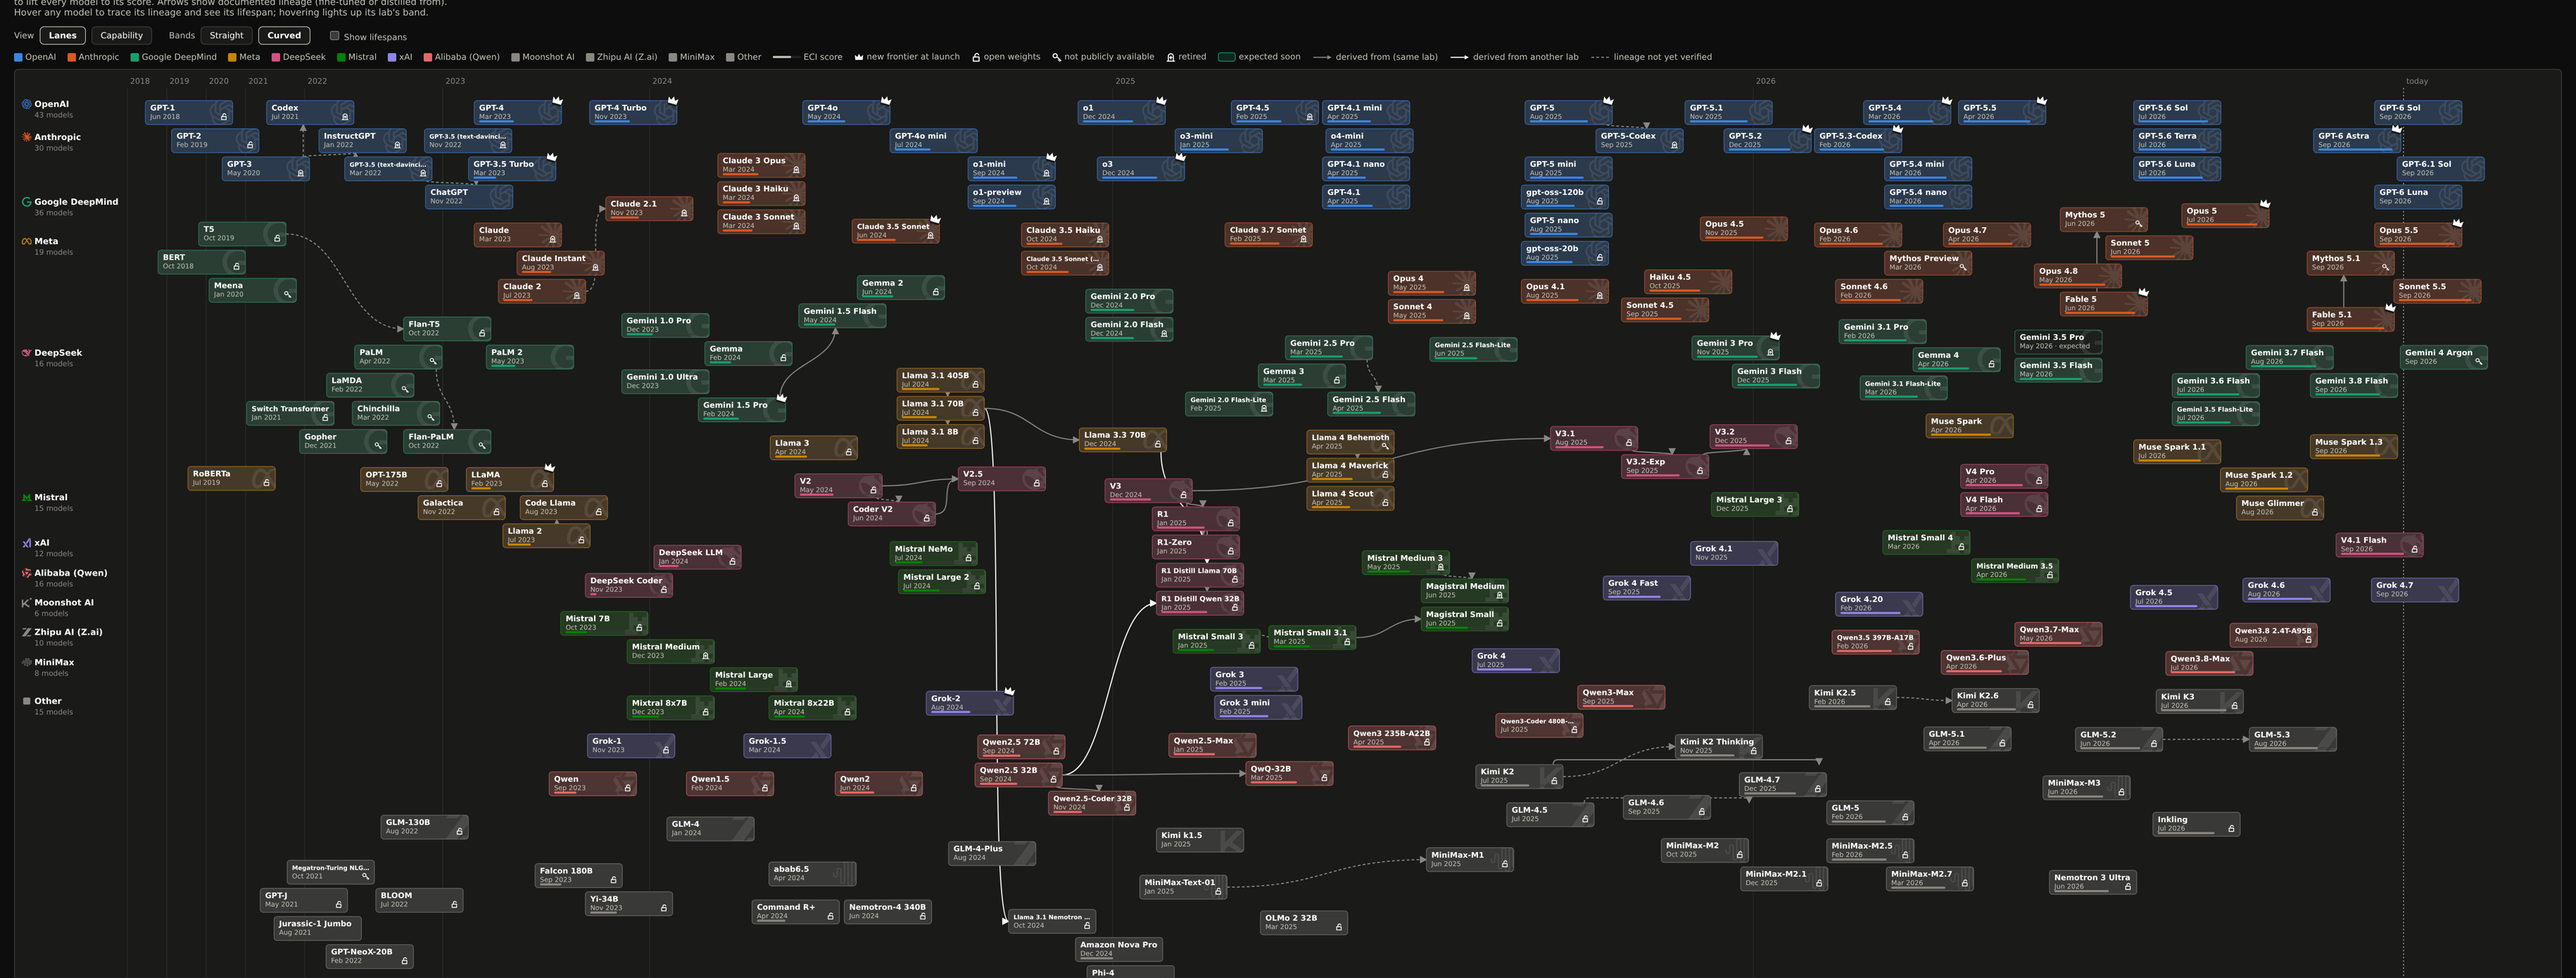
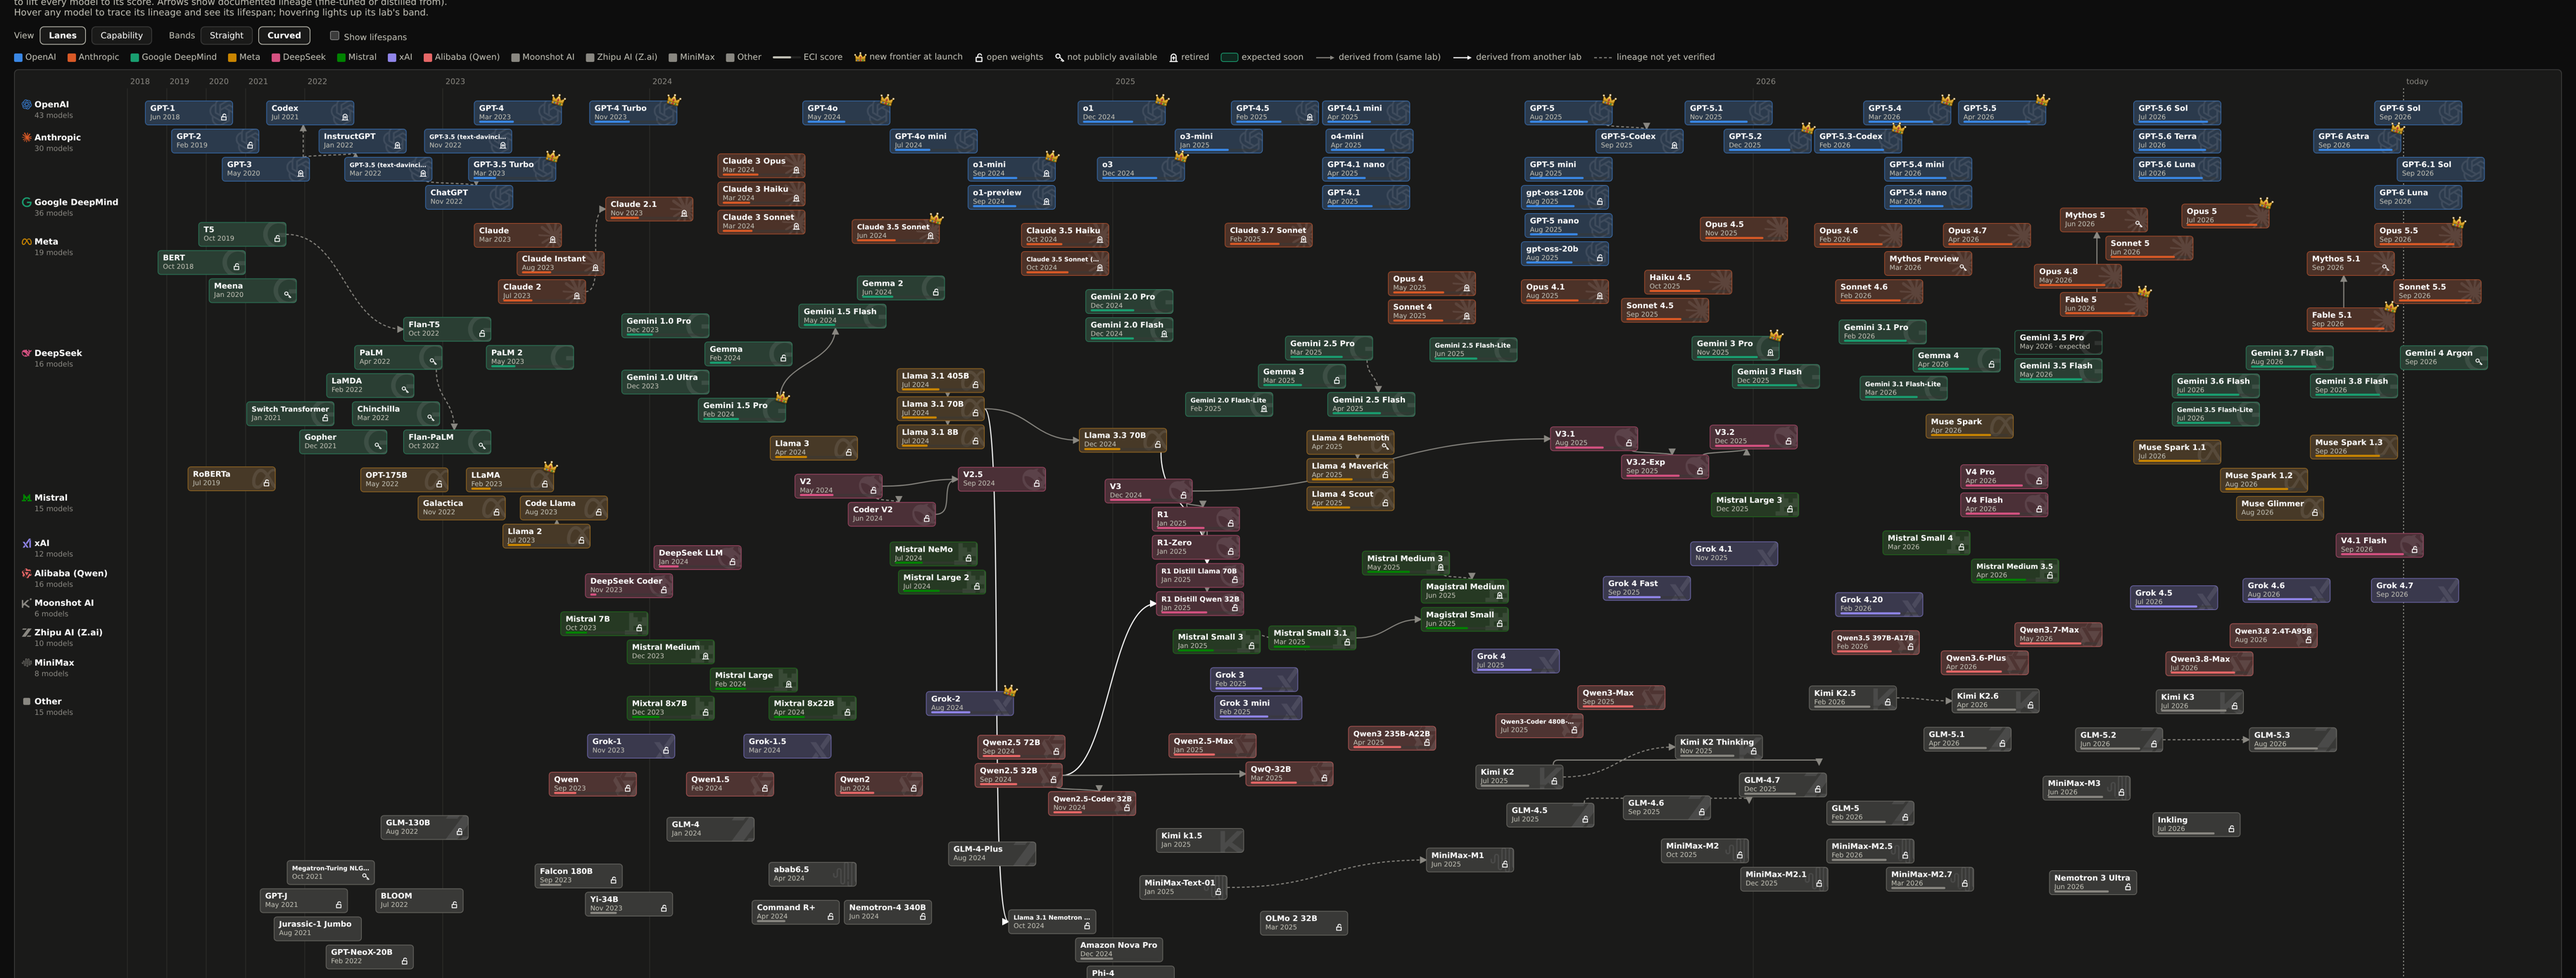
Prototype: gold jewelled frontier crown

diff --git a/prototype/boxes.html b/prototype/boxes.html
@@ -65,9 +65,8 @@ svg text { font-family: inherit; }
 .box .meta { font-size: 9.5px; fill: var(--text-secondary); font-variant-numeric: tabular-nums; transition: opacity .3s; }
 .box .wm { fill: var(--text-primary); opacity: .09; transition: opacity .3s; }
 svg.cap .box .wm { opacity: 0; }
-.box .crown { fill: var(--text-primary); stroke: var(--surface-1); stroke-width: 1.4; paint-order: stroke; transition: opacity .3s; }
+.box .crown { transition: opacity .3s; filter: drop-shadow(0 1px 1px rgba(0,0,0,.45)); }
 .box .badge, .legend .badge { fill: none; stroke: var(--text-primary); stroke-width: 1.3; stroke-linecap: round; stroke-linejoin: round; transition: opacity .3s; }
-.legend .crown { fill: var(--text-primary); }
 .box .meter-bg { fill: var(--axis); opacity: .5; transition: opacity .3s; }
 .box .meter { fill: var(--lab); transition: opacity .3s; }
 
@@ -375,6 +374,27 @@ for (const [id, d] of Object.entries(ICONS)) el('path', { d }, el('symbol', { id
 const LOGOS = window.LAB_LOGOS || {};
 for (const [lab, l] of Object.entries(LOGOS)) el('path', { d: l.path, 'fill-rule': l.fillRule }, el('symbol', { id: 'logo-' + lab, viewBox: '0 0 24 24' }, defs));
 el('rect', { width: BOX_W, height: BOX_H, rx: 4 }, el('clipPath', { id: 'box-clip' }, defs));
+// the frontier crown: gold body, pearl-tipped points, jewelled band
+defs.insertAdjacentHTML('beforeend', `
+  <linearGradient id="gold" x1="0" y1="0" x2="0" y2="1">
+    <stop offset="0" stop-color="#fff1a8"/><stop offset=".45" stop-color="#f2c14e"/><stop offset="1" stop-color="#b8860b"/>
+  </linearGradient>
+  <linearGradient id="gold-band" x1="0" y1="0" x2="0" y2="1">
+    <stop offset="0" stop-color="#f5cf5e"/><stop offset="1" stop-color="#9a6f08"/>
+  </linearGradient>
+  <symbol id="crown-gold" viewBox="0 0 24 20">
+    <path d="M3.2 15 L2 6 L7.6 10.2 L12 2.6 L16.4 10.2 L22 6 L20.8 15 Z" fill="url(#gold)" stroke="#7a5200" stroke-width=".8" stroke-linejoin="round"/>
+    <rect x="2.8" y="14.6" width="18.4" height="3.8" rx="1" fill="url(#gold-band)" stroke="#7a5200" stroke-width=".8"/>
+    <circle cx="2" cy="6" r="1.6" fill="#fffaf0" stroke="#7a5200" stroke-width=".6"/>
+    <circle cx="12" cy="2.6" r="1.7" fill="#fffaf0" stroke="#7a5200" stroke-width=".6"/>
+    <circle cx="22" cy="6" r="1.6" fill="#fffaf0" stroke="#7a5200" stroke-width=".6"/>
+    <path d="M12 8.6 L13.4 11 L12 13.2 L10.6 11 Z" fill="#d0263b" stroke="#6e0d18" stroke-width=".5"/>
+    <circle cx="12" cy="16.5" r="1.35" fill="#d0263b" stroke="#6e0d18" stroke-width=".5"/>
+    <circle cx="7.3" cy="16.5" r="1.05" fill="#2f6fdc" stroke="#123a80" stroke-width=".5"/>
+    <circle cx="16.7" cy="16.5" r="1.05" fill="#18a058" stroke="#0a5a30" stroke-width=".5"/>
+    <circle cx="11.5" cy="10.4" r=".45" fill="#fff" opacity=".8"/>
+    <circle cx="11.6" cy="16" r=".4" fill="#fff" opacity=".8"/>
+  </symbol>`);
 for (const [id, color] of [['arrow', 'var(--muted)'], ['arrow-cross', 'var(--text-primary)']]) {
   const mk = el('marker', { id, viewBox: '0 0 8 8', refX: 7, refY: 4, markerWidth: 7, markerHeight: 7, orient: 'auto-start-reverse' }, defs);
   el('path', { d: 'M0,0 L8,4 L0,8 z', style: `fill: ${color}` }, mk);
@@ -440,7 +460,7 @@ for (const p of Object.values(placed)) {
   el('text', { class: 'name', x: 7, y: 14 }, g).textContent = shortName(m);
   el('text', { class: 'meta', x: 7, y: 26 }, g).textContent = fmt(start(m)) + (expected ? ' · expected' : '');
   // a crown perched on the corner for a model that topped every earlier model at launch
-  if (frontierSetters.has(m.id)) el('use', { href: '#i-crown', class: 'crown', x: BOX_W - 14, y: -9, width: 17, height: 17, transform: `rotate(16 ${BOX_W - 5.5} -0.5)` }, g);
+  if (frontierSetters.has(m.id)) el('use', { href: '#crown-gold', class: 'crown', x: BOX_W - 15, y: -11, width: 21, height: 18, transform: `rotate(16 ${BOX_W - 4.5} -2)` }, g);
   // status badges, right-aligned on the date line
   const has = t => m.events.some(e => e.type === t);
   const badges = [];
@@ -523,7 +543,7 @@ gBoxes.addEventListener('mouseleave', () => { svg.classList.remove('focus'); gHo
 document.getElementById('legend').innerHTML =
   data.labs.filter(l => sizes[l.id]).map(l => `<span><svg width="12" height="12"><rect width="12" height="12" rx="2" style="fill:${laneColor[l.id]}"/></svg>${l.name}</span>`).join('') +
   `<span><svg width="40" height="8"><rect y="2" width="40" height="3" rx="1.5" fill="var(--axis)" opacity=".5"/><rect y="2" width="26" height="3" rx="1.5" fill="var(--text-secondary)"/></svg>ECI score</span>` +
-  `<span><svg width="14" height="14" viewBox="0 0 12 12"><use href="#i-crown" class="crown"/></svg>new frontier at launch</span>` +
+  `<span><svg width="18" height="15" viewBox="0 0 24 20"><use href="#crown-gold"/></svg>new frontier at launch</span>` +
   `<span><svg width="14" height="14" viewBox="0 0 12 12"><use href="#i-open" class="badge"/></svg>open weights</span>` +
   `<span><svg width="14" height="14" viewBox="0 0 12 12"><use href="#i-key" class="badge"/></svg>not publicly available</span>` +
   `<span><svg width="14" height="14" viewBox="0 0 12 12"><use href="#i-tombstone" class="badge"/></svg>retired</span>` +
